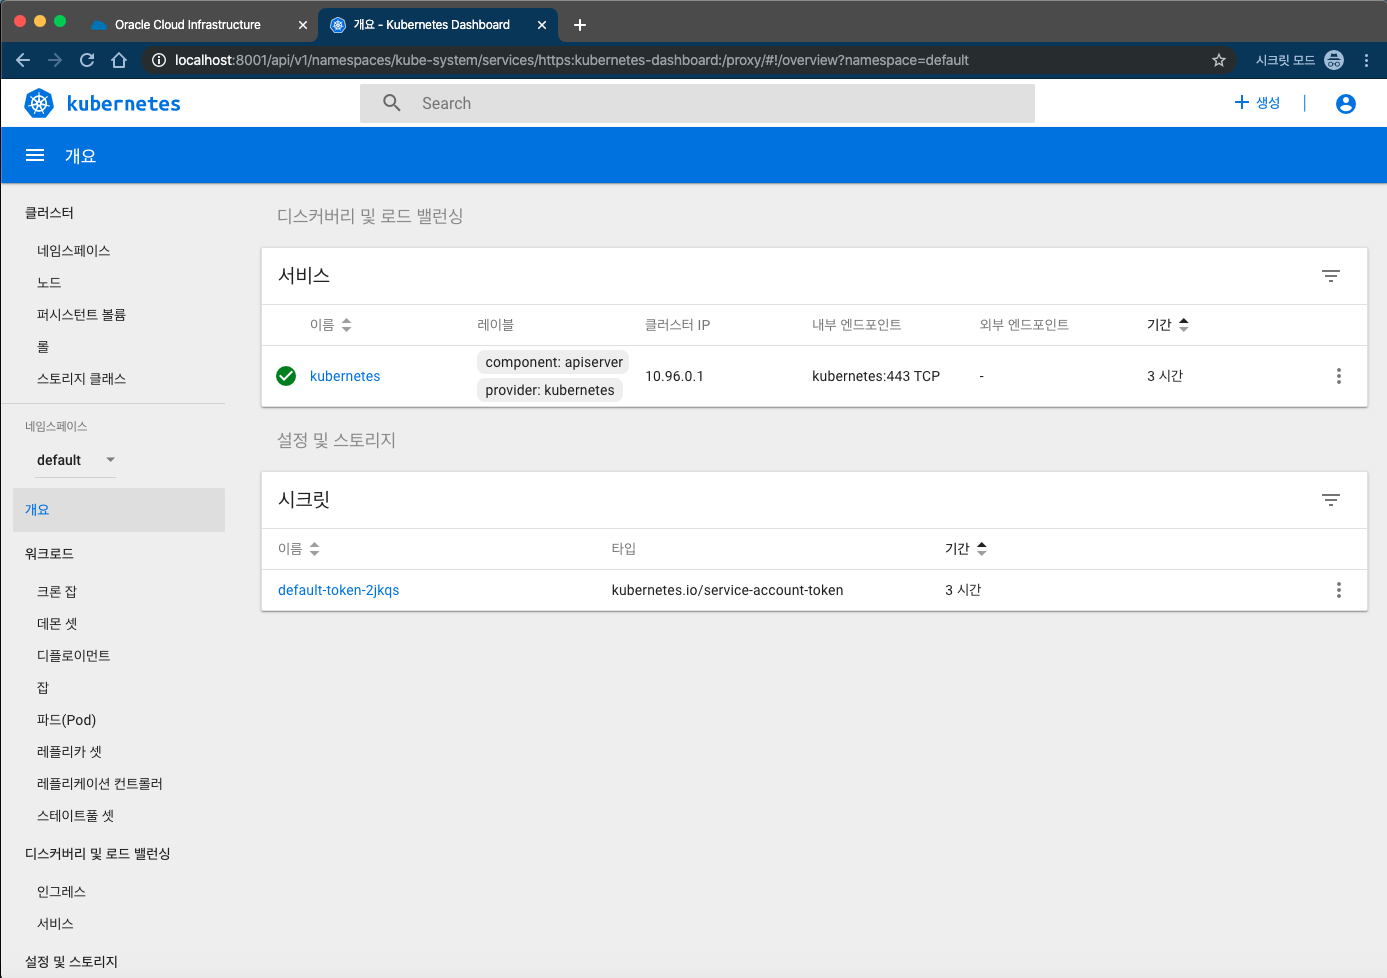
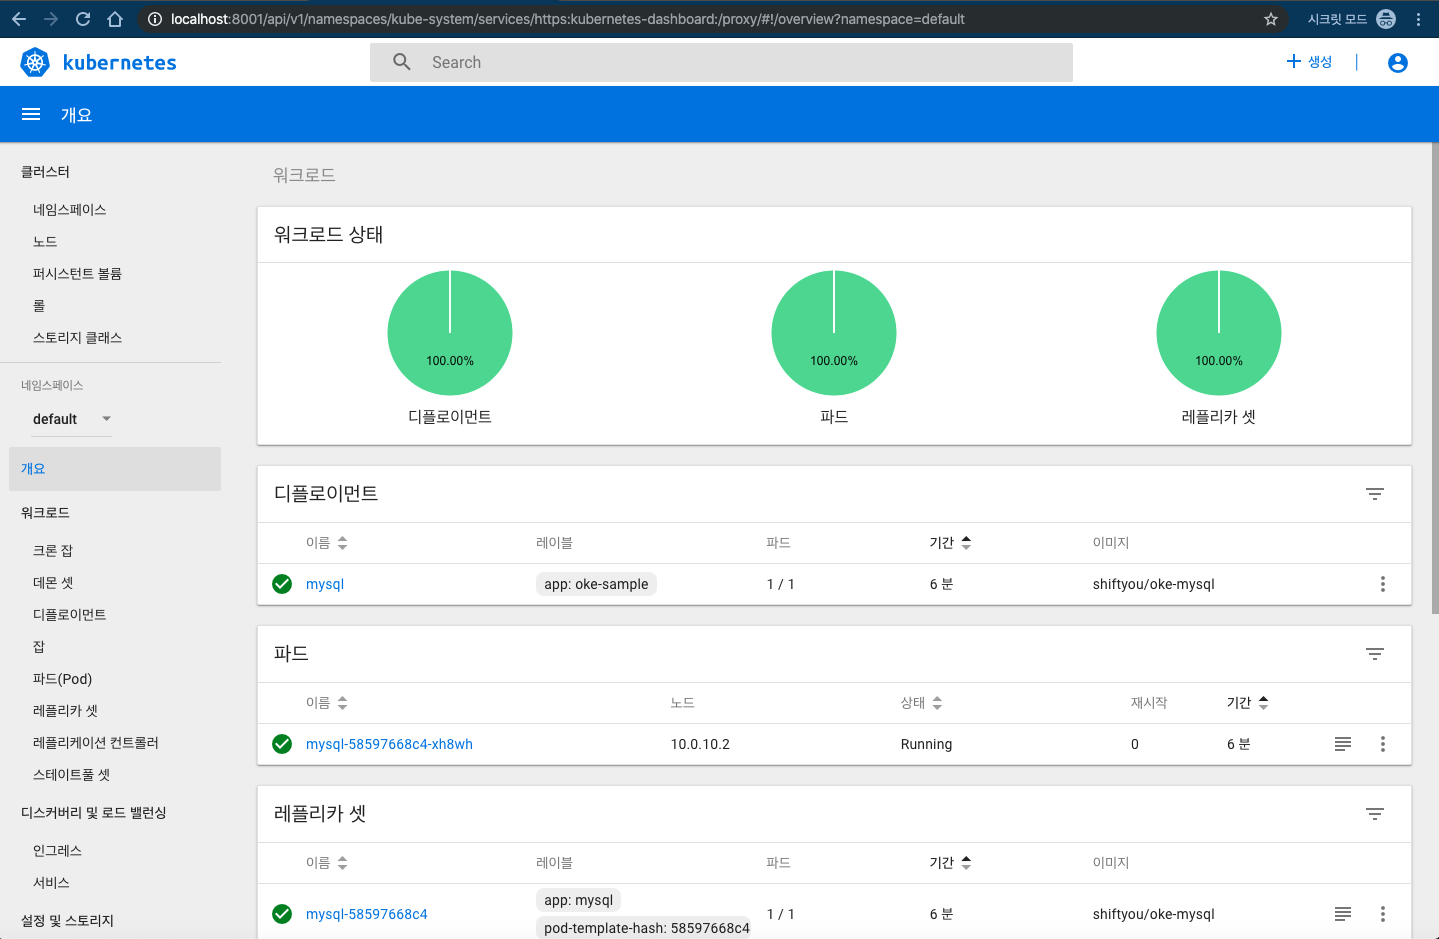
update

diff --git a/cicd.md b/cicd.md
@@ -1,11 +1,115 @@
 
-## **STEP 1**: OCI(Oracle Cloud Infrastructure) 환경 확인하기
+## Developer Cloud로 CI / CD 빌드 생성하기
 
-### 
-> ***Compartment***   
-> .
+자동으로 배포가 되게 하기 위해 Build를 생성하는 단계입니다. 1개의 Build에 총 4개 Step을 만들어야 하며 순서는 다음과 같습니다.
+###
+> 1. Docker Login
+> 2. Docker Build
+> 3. Docker Push 
+> 4. Kubernetes Deploy
 
-먼저 OCI Console에 로그인합니다.
 
-1. https://console.ap-seoul-1.oraclecloud.com 접속 후 Tenant 입력 > **Continue** 클릭
-![](images/oci_login_tenant.png)
+1. Developer Cloud에서 왼쪽 메뉴에서 Builds 탭을 클릭합니다.
+![](images/devcs_build1.png)
+
+1. New Job을 클릭합니다. build의 이름을 임의로 입력합니다. 여기서는 build_deploy_kube 라고 하겠습니다. Template는 미리 생성해 놓은 build_vm을 선택합니다. 
+   빌드시에 사용할 VM 인스턴스를 선택하는 단계입니다.
+![](images/devcs_build2.png)
+
+
+1. Job을 생성한 후에는 Build시에 사용할 Git 저장소를 선택합니다. 어떤 소스를 사용해서 Build를 할지를 선택하게 됩니다.
+![](images/devcs_addgit1.png)
+
+1. Add Git 버튼을 누릅니다.
+![](images/devcs_addgit2.png)
+1. Repository에서 sample-project.git을 선택합니다. 이때 Automatically perform build on SCM commit 버튼을 체크합니다. 이 부분이 바로 git에 소스가 변경이 되었을때 자동으로 이 build가 수행되도록 해주는 기능입니다.
+![](images/devcs_addgit3.png)
+
+1. 다음올 환경변수 값을 세팅하기 위해 Parameter를 선택합니다. 이 값들은 build Step에서 환경 변수로 사용합니다.
+   오른쪽에 Add Parameter 를 선택 하고 String Parameter를 선택한 후 아래의 값을 입력합니다.
+    ![](images/devcs_param1.png)
+
+1. 먼저 Kubernetes 주소를 변수로 입력합니다.   
+    ![](images/devcs_param2.png)
+    ```
+    Name : KUBE_URL
+    Default Value : https://[Kubernetes Master 서버 주소]
+    ```
+    앞에 https 를 반드시 입력해야 합니다.
+    여기서 Kubernetes 주소는 OCI 콘솔의 Containers->Clusters에서 확인이 가능합니다.
+    ![](images/devcs_param21.png)
+
+1. 다시 String Parameter를 선택해서 다음을 입력합니다.
+    Name: KUBE_TOKEN
+    Default Value : 이전 Lab에서 아래의 명령어로 얻은 Token값을 넣습니다.
+    ```
+    $ kubectl -n kube-system describe secret $(kubectl -n kube-system get secret | grep oke-admin | awk '{print $1}')
+    ```
+    ![](images/devcs_param3.png)
+
+1. 마지막으로 생성할 docker image의 이름을 변수로 넣어줍니다.
+    ![](images/devcs_param4.png)
+    ```
+    Name : IMAGE_NAME
+    Default Value : icn.ocir.io/idsufmye3lml/wonjo/sample-app 
+    ```
+1. 중간에 저장을 한번 하기 위해 Save버튼을 누릅니다.
+![](images/devcs_param.png)
+
+1. 오른쪽 상단의 Configure 버튼을 누릅니다.
+   ![](images/devcs_configure.png)
+
+1. Steps를 누른 후 Add Step --> Docker --> Docker Login을 선택합니다.
+    ![](images/devcs_step_dockerlogin1.png)
+
+1. Steps를 누른 후 Add Step --> Docker --> Docker Login을 선택합니다.
+    ![](images/devcs_step_dockerlogin2.png)
+
+1. 앞에서 등록한 OCIR Docker Registry인 OCIR1 을 선택하면 자동으로 계정정보가 입력됩니다.
+    ![](images/devcs_step_dockerbuild1.png)
+
+1. 두번째 단계인 Docker Build를 선택합니다. 
+    ![](images/devcs_step_dockerbuild1.png)
+
+1. 아래의 정보를 입력합니다.
+    ```
+        Docker Build
+        Image Name : idsufmye3lml/wonjo/sample-app
+        Version Tag : $BUILD_NUMBER
+        Source : 
+        Context Root in Workspace 선택
+    ```
+    ![](images/devcs_step_dockerbuild2.png)    
+
+1. 동일한 과정으로 Docker Push를 선택하고 아래의 정보를 입력합니다. 
+    ```
+    Docker Push
+    Image Name : idsufmye3lml/wonjo/sample-app
+    ```
+    ![](images/devcs_step_dockerbuild3.png)
+
+1. 마지막으로 Unix Shell을 선택합니다.
+   ![](images/devcs_step_shell1.png)
+
+1. kubernetes 에 deploy하는 단계 입니다. kube-oke-sample.yaml 파일을 실행하는 스크립트를 호출하기 위해 아래의 정보를 입력합니다.  
+    ```
+    export APP_IMAGE_NAME=$IMAGE_NAME:$BUILD_NUMBER
+    envsubst < kube-oke-sample.yml | kubectl --insecure-skip-tls-verify --server $KUBE_URL --token $KUBE_TOKEN apply -f -
+    ```
+    
+    ![](images/devcs_step_shell2.png)
+2. 위쪽에 Save 버튼을 누릅니다.
+
+3. 준비가 되었습니다. 바로 눌러서 Build를 해보겠습니다. Build Now 버튼을 누릅니다.
+   ![](images/devcs_step_buildnow.png)
+4. 앞에서 설정한 파라미터 값을 변경할 수 있는 Popup이 뜹니다. Default 값을 이미 입력했기 때문에 Build Now 를 바로 누릅니다.
+    ![](images/devcs_step_buildnow2.png)
+
+5. 잠시 작업 Queue에 들어갔다가 Build를 시작하게 됩니다.
+    ![](images/devcs_step_buildnow3.png)
+
+1. build가 성공적으로 수행되었습니다. 오른쪽 상단에 build log 버튼을 눌러 log를 확인해 보겠습니다.
+    ![](images/devcs_buildok.png)
+
+1. 에러가 발생한 경우에는 이곳에서 build log를 확인할 수 있습니다. 
+    ![](images/devcs_buildlog.png)

diff --git a/devcs.md b/devcs.md
@@ -1,11 +1,88 @@
 
-## **STEP 1**: OCI(Oracle Cloud Infrastructure) 환경 확인하기
+## **STEP 1**: Developer Cloud Service 환경 확인하기
 
 ### 
 > ***Compartment***   
 > .
 
-먼저 OCI Console에 로그인합니다.
+Developer Cloud Service 인스턴스 Console에 접속합니다.
 
-1. https://console.ap-seoul-1.oraclecloud.com 접속 후 Tenant 입력 > **Continue** 클릭
-![](images/oci_login_tenant.png)
+1. 이미 1개의 인스턴스를 생성해 놓았습니다. 오른쪽에 햄버거 버튼을 클릭한 후 Access Service Instance 를 클릭해서 해당 인스턴스의 콘솔 화면으로 이동합니다.
+![](images/devcs_1.png)
+
+2. 미리 준비해 놓은 sample_project 를 선택합니다.
+![](images/devcs_2.png)
+
+3. Developer Cloud Service의 Project는 개발환경에 필요한 통합 된 기능을 모두 제공합니다. Git 리파지토리, Maven 리파지토리, Build 파이프라인, Agile 개발을 위한 Code Review기능, Wiki등을 제공합니다. 
+![](images/devcs_3.png)
+
+4. 그 중에서 먼저 Git Repository를 확인해 보도록 하겠습니다. 왼쪽 메뉴에서 Git를 클릭해 봅니다. Git Repository는 Github과 같이 소스 버전 관리를 할 수 있습니다.
+![](images/devcs_4.png)
+
+## **STEP 2**: Developer Cloud Service에서 OCIR(Oracle Cloud Infrastructure Registry) 연결하기 
+
+1. OCIR은 이전 Lab에서 확인했던 OCI 콘솔화면 중에서 Developer-> Containers->Registry 메뉴에서 확인할 수 있습니다.
+![](images/devcs_ocir_connect2.png)
+
+1. OCIR을 연결하기 위햇 Developer Cloud Service에서 Docker 메뉴를 클릭해보겠습니다. Docker 메뉴에서는 외부 Docker Repository와 연결하는 기능을 제공해서 docker image를 가져오거나 push를 할 수 있는 기능을 제공합니다. 'Link External Registry'를 클릭합니다.
+![](images/devcs_ocir_connect1.png)
+
+1. 아래의 정보와 같이 입력합니다.
+![](images/devcs_ocir_connect3.png)
+Registry Name : 영문으로 입력
+Registry URL : https://icn.ocir.io
+Authentication : Basic 선택
+    Username : <tenancy_name>/oracleidentitycloudservice/<oci_user_name>
+예:) idsufmye3lml/oracleidentitycloudservice/test@oracle.com
+
+    Password : 제공된 비밀번호 입력 (OCI->User Setting->Auth Tokens에서 생성 가능)
+
+1. 정상적으로 입력이 되면 연결 테스트를 하고 Registry 정보가 보여지게 됩니다.
+![](images/devcs_ocir_connect4.png)
+
+## **STEP 3**: 실습 개발 환경에서 Developer Cloud Service의 Git로 소스 Push하기
+1. 실습 개발 환경에서 ls 를 해보면 cloud-native-oke 라는 폴더가 있습니다.
+    ```
+    [user301@mcdhol2019 ~]$ ls
+    cloud-native-oke  mysql-deployment.yaml  oci_api_key.pem  oke-admin-service-account.yaml
+    ```
+1. cloud-native-oke는 node.js로 되어 있는 web application입니다. 해당 폴더로 이동합니다.
+   ```
+    [user301@mcdhol2019 ~]$ cd cloud-native-oke
+    ```
+1. ls를 해보면 node.js파일들과 함께 docker image를 만들기 위한 Dockerfile과 kubernetes에 배포하기 위한 kube-oke-sample.yml 파일이 있습니다. 
+   ```
+    [user301@mcdhol2019 cloud-native-oke]$ ls
+    Dockerfile  app.js      kube-oke-sample.yml           node_modules       package.json  views
+    README.md   create.sql  kube-oke-sample.yml.template  package-lock.json  routes        wercker.yml
+    ```
+2. 이 파일들을 Remote에 있는 Developer Cloud의 git Repository 에 push하기 위해 다음의 순서로 실행합니다.
+   ```
+    git init
+    git config --global user.name $USER
+    git config --global user.email "[제공된 이메일]"
+    git config credential.helper store
+
+    git remote add origin [원격지 Git 주소]
+    git pull origin master
+    Password for 'https://xxxxx@oracle.com@devcs1-danskbb.developer.ocp.oraclecloud.com':
+    ```
+    원격지 Git 주소는 Developer Cloud의 다음 화면에서 복사할 수 있습니다.
+![](images/devcs_giturl.png)
+    git 비밀번호는 제공된 클라우드 계정에 대한 비밀번호 를 입력하시면 됩니다.
+
+    ```
+    remote: Counting objects: 3, done
+    remote: Finding sources: 100% (3/3)
+    remote: Getting sizes: 100% (2/2)
+    ```
+    원격지의 git repository와 현재 디렉토리가 정상적으로 연결이 되었습니다. 
+    
+1. 이제 실습 개발 환경에 있는 소스를 올려보도록 하겠습니다.
+    ```
+    git add .
+    git commit -m 'change1'
+    git push
+    ```
+1. Developer Cloud 에 가서 소스가 모두 반영되었는지 확인해보도록 하겠습니다. Git 메뉴를 클릭하면 파일들이 생성된 것을 확인할 수 있습니다.
+   ![](images/devcs_git_push.png)

diff --git a/app.md b/app.md
@@ -1,11 +1,58 @@
 
-## **STEP 1**: OCI(Oracle Cloud Infrastructure) 환경 확인하기
+## **STEP 1**: Sample Application 확인하기
 
-### 
-> ***Compartment***   
-> .
+1. sample-app이 정상적으로 배포되었는지 확인하기 위해 Kubernetes Dashboard로 이동합니다.
+   ![](images/kube_dash_afterweb.png)
 
-먼저 OCI Console에 로그인합니다.
+1. 아래로 조금 스크롤을 해보면 구동중인 서비스를 확인할 수 있습니다. 배포시에 설정파일에 의해 Oracle 의 LoadBalancer과 자동으로 연결되어 집니다.
+   ![](images/kube_dashboard_app.png)
 
-1. https://console.ap-seoul-1.oraclecloud.com 접속 후 Tenant 입력 > **Continue** 클릭
-![](images/oci_login_tenant.png)
+1. 링크를 클릭하면 배포된 간단한 주소록 프로그램인 sample-app 이 열리게 됩니다.
+![](images/app1.png)
+
+## **STEP 2**: 소스 변경 후 Git Repository 에 반영하기
+다시 실습 개발 환경으로 돌아가서 소스를 변경해 보도록 하겠습니다.
+소스를 변경한 후 Local Git에 Commit을 하고 원격 Git Repository에 Push를 해서 자동으로 Build가 수행되어 Docker Registry에 등록되고, 이를 Kubernetes에 배포하는 과정이 수행되게 됩니다.
+
+1. 소스 변경
+   $HOME/cloud-native-oke/routes/version.js 파일의 내용은 단순히 다음과 같고 여기에서 version 정보를 1.0에서 2.0으로 변경해 보도록 하겠습니다. 미리 version2.js 파일을 준비해 놓았습니다.
+    ```
+    var version = "1.0";
+    exports.version = version;
+    ```
+    
+2. 계정으로 Home에서 다음의 명령어를 입력합니다.
+    ```
+    cd cloud-native-oke
+    cd routes
+    cp version2.js version.js
+    ```
+3. Local Git에 소스 변경내용을 commit 하고 Developer Cloud Service에 있는 원격 Repository에 push하겠습니다.
+    ```
+    git add .
+    git commit -m changeversion
+    git push
+    ```
+    정상적으로 수행되면 다음과 같이 나오게 됩니다.
+    ![](images/change_source.png)
+
+## **STEP 3**: 변경 내용 확인하기
+1. Developer Cloud 의 Builds 탭에서 보면 새로운 build가 자동으로 수행 된 것을 확인할 수 있습니다. Build 생성시에 Git Repository를 계속 모니터링하고 있다가 소스가 변경이 된 것을 감지해 Build가 자동 수행이 되도록 설정을 했기 때문입니다.
+![](images/job_execute2.png)
+
+1. Kubernetes Dashboard에서 보면 Pod의 시간이 변경이 된 것을 확인할 수 있습니다. Build가 수행이 되면 Deployment를 새로 하게 되고 이때 Container를 담고 있는 Pod가 새로운 Pod로 교체가 되게 됩니다.
+![](images/kube_pod_change.png)
+
+1. Application 페이지를 Refresh 해보면 version 정보가 변경된 것을 확인 할 수 있습니다.
+![](images/app2.png)
+
+1. 조금 유심히 보게 되면 version정보 옆에 나오는 IP Address가 변경된 것을 알 수 있습니다. Container 를 담고 있는 Pod가 변경이 되면서 내부 IP가 변경이 되게 됩니다. 하지만 주소창에 있는 서비스 IP는 변경이 되지 않습니다. 이 IP는 앞단에 있는 Load Balancer의 IP이고 Load Balancer에서 새로 생성된 Pod로 연결을 자동으로 변경해주게 됩니다.
+
+----
+
+모든 Lab 과정을 마쳤습니다.
+수고하셨습니다.
+
+모든 과정을 빨리 끝내신 분들은 아래의 Lab을 추가적으로 해보시면 됩니다.
+
+[조금 더 살펴보기](./more.md)

diff --git a/oke.md b/oke.md
@@ -31,7 +31,7 @@
 1. 이제 여러분의 실습 개발 환경에서 위 클러스터에 접속을 해보도록 하겠습니다. 먼저 ssh로 각자의 개발환경에 접속합니다.
    
     ```
-    ssh -i id_rsa 사용자명@132.145.83.122
+    ssh -i id_rsa 사용자명@140.238.18.26
     ```
 1. 이 개발 환경에서는 여러분의 kubernetes cluster에 대한 정보가 .kube 디렉토리에 이미 설정되어 있습니다. kubernetes cli 툴을 통해서 클러스터의 접속 정보를 확인해 봅니다. 
     ```
@@ -48,13 +48,25 @@
     $ kubectl get service
     NAME         TYPE        CLUSTER-IP   EXTERNAL-IP   PORT(S)   AGE
     kubernetes   ClusterIP   10.96.0.1    <none>        443/TCP   145m
-3. 이제 Kubernetes Dashboard 에 접속해 보도록 하겠습니다. 쿠버네티스는 자체 Dashboard를 제공하고 있는데, 보안상 localhost에서만 접근을 하도록 막혀 있습니다. 이 Lab에서는 개발환경에서 localhost로 띄우고 여러분의 Local Pc에서 SSH Tunneling을 통해서 접근하도록 하겠습니다. 먼저 Kubernetes Proxy를 띄웁니다. alias로 만들어 놓은 kubeproxy를 실행합니다.
+
+1. kubernetes에 mysql 를 배포해서 띄워 보도록 하겠습니다. 예제에서 사용할 스키마까지 생성되는 docker image를 바로 배포하도록 하겠습니다.
+    아래 명령어를 입력합니다.
+    ```
+    $ kubectl -f mysql-deployment.yaml apply
+    ```
+
+    ![](images/oke_mysql_deploy.png)
+
+1. 아래 명령어를 통해서 서비스의 상태를 확인 해 봅니다. mysql이 배포가 된 것을 확인할 수 있습니다.    
+   ![](images/oke_mysql_kubectl.png)
+   
+2. 이제 Kubernetes Dashboard 에 접속해 보도록 하겠습니다. 쿠버네티스는 자체 Dashboard를 제공하고 있는데, 보안상 localhost에서만 접근을 하도록 막혀 있습니다. 이 Lab에서는 개발환경에서 localhost로 띄우고 여러분의 Local Pc에서 SSH Tunneling을 통해서 접근하도록 하겠습니다. 먼저 Kubernetes Proxy를 띄웁니다. alias로 만들어 놓은 kubeproxy를 실행합니다.
     ```
     $ kubeproxy
     Starting to serve on 127.0.0.1:포트
     ```
 
-1. Local PC에서 개발환경 서버로 위 포트로 Tunneling을 합니다. 별도의 창을 띄워 놓아야 합니다.
+3. Local PC에서 개발환경 서버로 위 포트로 Tunneling을 합니다. 별도의 창을 띄워 놓아야 합니다.
    ```
     윈도우 : putty로 아래와 같이 설정해서 접속
     ```
@@ -62,7 +74,7 @@
     ```
     Mac : ssh -i id_rsa -L 8001:127.0.0.1:포트 사용자명@140.238.18.26
     ```
-1. 브라우저에서 다음의 주소로 접속해 봅니다.
+4. 브라우저에서 다음의 주소로 접속해 봅니다.
 http://localhost:8001/api/v1/namespaces/kube-system/services/https:kubernetes-dashboard:/proxy/#!/login
 
     ![](images/kube_dashboard.png)

diff --git a/README.md b/README.md
@@ -16,7 +16,7 @@
 * SSH Terminal (windows Putty, macOS Terminal 등)
 
 ## Client 접속 환경
-ssh -i id_rsa 사용자명@132.145.83.122
+ssh -i id_rsa 사용자명@140.238.18.26
 실습 개발 환경 접속 정보 받기
 
 ## Oracle Developer Cloud Service와 Oracle Container Engine for Kubernetes 
@@ -25,7 +25,7 @@ ssh -i id_rsa 사용자명@132.145.83.122
 ### Oracle Container Engine for Kubernetes (OKE)
 설명 
 
-## 실습을 위한 클라이언트 환경
+## 실습을 위한 클라이언트 개발 환경
 다음 주소를 클릭합니다. 본인의 이메일 주소를 입력하면 실습을 위한 클라이언트 환경을 할당받을 수 있습니다.
 --- 여기서 이메일 입력, 제출 클릭하면 Private/Public Key (Putty, OpenSSH), IP, 접속 계정을 전달 받는다.
 
@@ -38,6 +38,5 @@ ssh -i id_rsa 사용자명@132.145.83.122
 1. [Oracle Kubernetes 환경 확인하기](./oke.md)
 1. [Developer Cloud Service 에 접속하기](./devcs.md)
 1. [Developer Cloud Service 에서 Build 생성하기](./cicd.md)
-1. [Application 확인하기](./app.md)]
-   
+1. [CI/CD 를 통한 자동화](./app.md)
 ***
